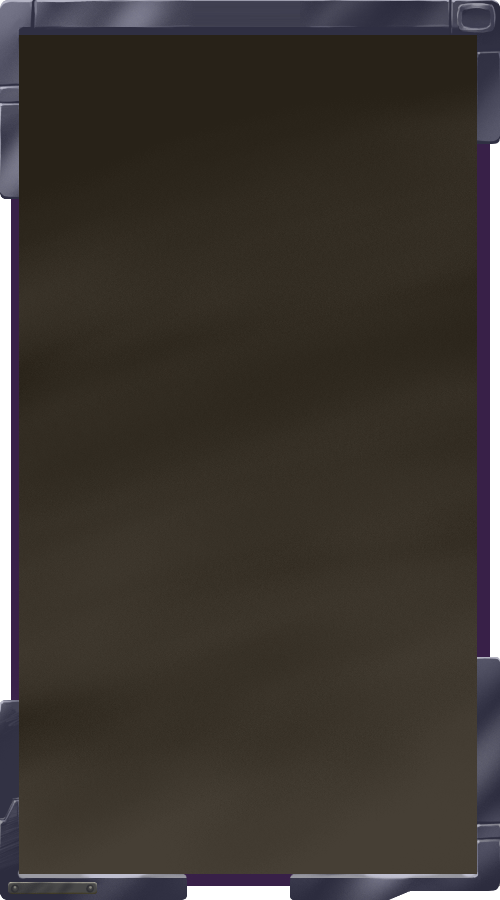
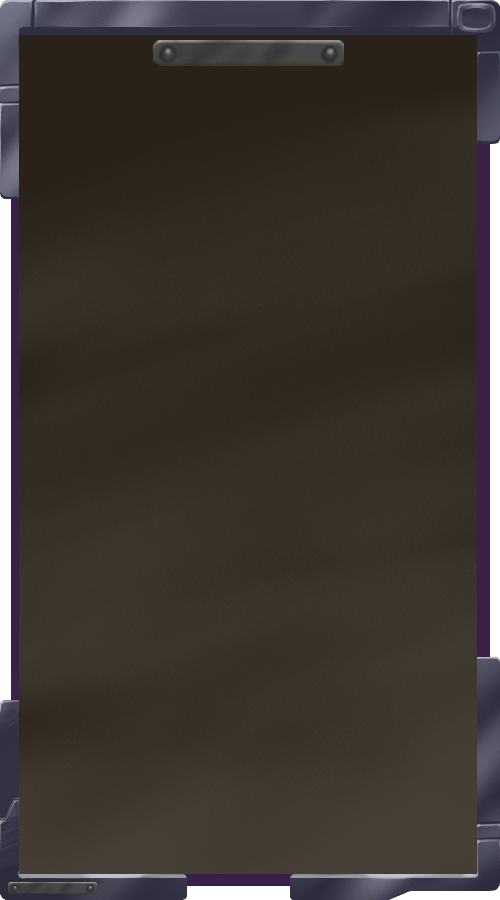
potion menu work

Changed region(s): [[0.3, 0.0311, 0.69, 0.0933]]

diff --git a/Source/src/com/silvergobletgames/leadcrystal/menus/PotionsMenu.java b/Source/src/com/silvergobletgames/leadcrystal/menus/PotionsMenu.java
@@ -1,10 +1,12 @@
 package com.silvergobletgames.leadcrystal.menus;
 
+import com.silvergobletgames.leadcrystal.core.CursorFactory;
 import com.silvergobletgames.leadcrystal.core.LeadCrystalTextType;
 import com.silvergobletgames.leadcrystal.entities.PlayerEntity;
 import com.silvergobletgames.leadcrystal.items.Potion;
 import com.silvergobletgames.leadcrystal.items.PotionManager;
 import com.silvergobletgames.leadcrystal.scenes.GameClientScene;
+import com.silvergobletgames.sylver.core.Game;
 import com.silvergobletgames.sylver.graphics.Image;
 import com.silvergobletgames.sylver.graphics.Text;
 import com.silvergobletgames.sylver.windowsystem.Button;
@@ -28,15 +30,52 @@ public class PotionsMenu extends Window{
         
         this.playerReference = playerReference;
         
+        //text
+        Text menuText = new Text("Potions",LeadCrystalTextType.HUD24);
+        Label menuTextLabel = new Label(menuText,275 - menuText.getWidth()/2,840);
+        this.addComponent(menuTextLabel);
+        
+        //close
+        final Image closeImage = new Image("closeButton.png");
+        Button closeButton = new Button(closeImage,504,867,closeImage.getWidth()+1,closeImage.getHeight());
+        closeButton.addActionListener(new ActionListener(){
+            public void actionPerformed(ActionEvent e)
+            {
+                if (e.getActionCommand().equals("mouseEntered")) {
+
+                  closeImage.setBrightness(1.5f);
+                  Game.getInstance().getGraphicsWindow().setCursor(CursorFactory.getInstance().getCursor(CursorFactory.CursorType.HAND)); 
+                }
+                if (e.getActionCommand().equals("mouseExited")) {
+
+                    closeImage.setBrightness(1f);
+                }
+                if(e.getActionCommand().equals("clicked"))
+                {
+                    close();
+                }
+            }
+       });
+        this.addComponent(closeButton);
+        
+        //section1
+        final Image section = new Image("section1.png");
+        Button sectionButton = new Button(section,275 - section.getWidth()/2,300,section.getWidth(),section.getHeight());
+        this.addComponent(sectionButton);
+        
+        //section2
+        final Image section2 = new Image("section2.png");
+        Button sectionButton2 = new Button(section2,330,50,section2.getWidth(),section2.getHeight()+6);
+        this.addComponent(sectionButton2);
         
         //gold
         Text playerGoldDesc = new Text("Your Gold:",LeadCrystalTextType.HUD24);
-        Label playerGoldDescLabel = new Label(playerGoldDesc,285,800);
+        Label playerGoldDescLabel = new Label(playerGoldDesc,226,57);
         this.addComponent(playerGoldDescLabel);
         Text playerGold = new Text(Integer.toString(0),LeadCrystalTextType.HUD24);
-        playerGoldLabel = new Label(playerGold,410,800);
+        playerGoldLabel = new Label(playerGold,390,57);
         this.addComponent(playerGoldLabel);
-        Button b1 = new Button(new Image("currency2.png"),480,800,20,20);
+        Button b1 = new Button(new Image("currency2.png"),460,55,20,20);
         this.addComponent(b1);
         
        //potion
